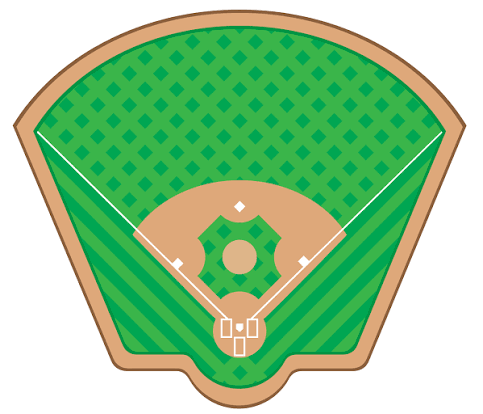
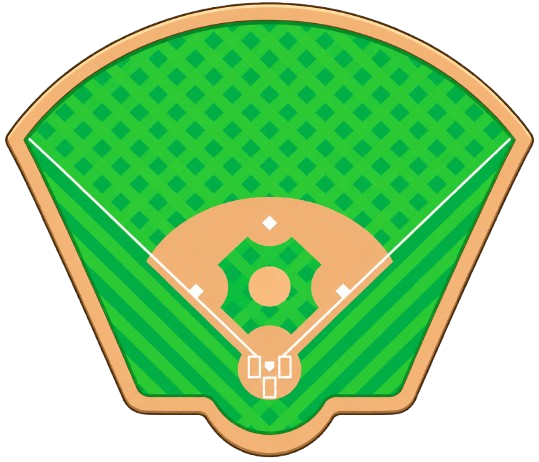
Update game background

diff --git a/dicebaseball/src/index.css b/dicebaseball/src/index.css
@@ -56,16 +56,18 @@ body {
 }
 
 #root {
-  width: 1126px;
-  max-width: 100%;
-  margin: 0 auto;
-  text-align: center;
-  border-inline: 1px solid var(--border);
-  background-color: white;
-  min-height: 100svh;
-  display: flex;
-  flex-direction: column;
-  box-sizing: border-box;
+    width: 1126px;
+    max-width: 100%;
+    margin: 0 auto;
+    text-align: center;
+    border-inline: 1px solid var(--border);
+    background-image: url('./assets/pozadina.jpg');
+    background-size: cover;
+    background-position: center;
+    min-height: 100svh;
+    display: flex;
+    flex-direction: column;
+    box-sizing: border-box;
 }
 
 h1,
